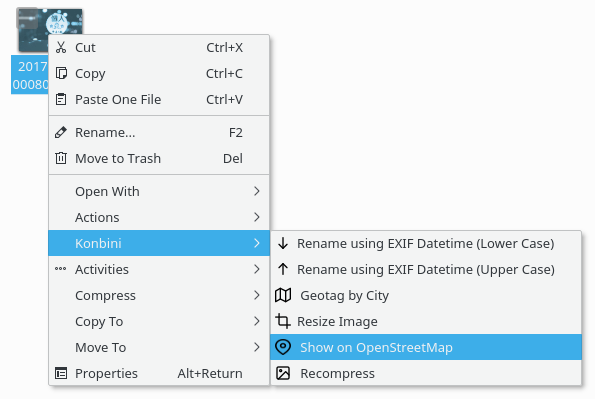
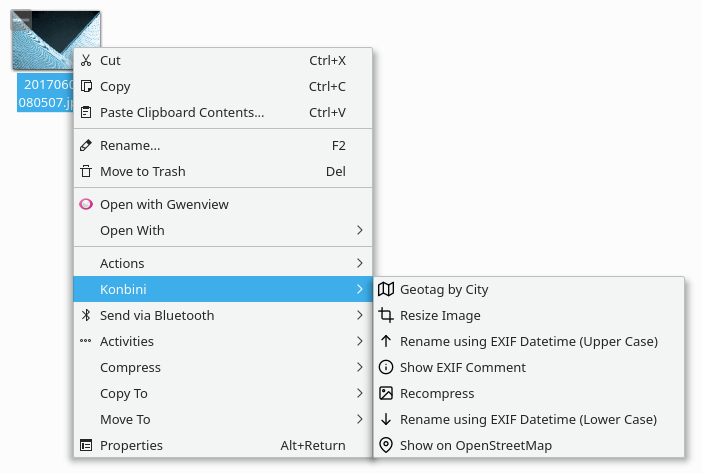
Add Show EXIF Comment

Changed region(s): [[0.0, 0.0, 0.9983, 0.9925]]

diff --git a/README.md b/README.md
@@ -11,6 +11,7 @@ A set of Bash shell scripts and desktop files that add useful context actions to
 - *Unbash* is a script for fetching Unsplash photos matching the specified keyword. Run using the `unbash -c [NUMBER] -k [KEYWORD]` command.
 - *Geotag by City* geotags photos. Right-click on the desired photo, choose **Konbini → Geotag by City**.
 - *Show on OpenStreetMap* shows the position of the specified geotagged photo on the OpenStreetMap. Right-click on the desired photo, choose **Konbini → Show on OpenStreetMap**.
+- *Show EXIF Comment* displays the contents of the *Comment* field in EXIF metadata.  Right-click on the desired photo, choose **Konbini → Show EXIF Comment**.
 - *Resize*, a tool for resizing images using ImageMagick. Right-click on the desired photo, choose **Konbini → Resize**.
 - *Rename (Lower Case)* renames photos using the jhead tool and change the file extension to lower case. The tool renames photos using the *YYYYMMDD-hhmmss* format (e.g., *19701101-115530*). Right-click on the desired photo, choose **Konbini → Rename using EXIF Datetime (Lower Case)**.
 - *Rename (Upper Case)* renames photos using the jhead tool and change the file extension to upper case. The tool renames photos using the *YYYYMMDD-hhmmss* format (e.g., *19701101-115530*). Right-click on the desired photo, choose **Konbini → Rename using EXIF Datetime (Upper Case)**.
